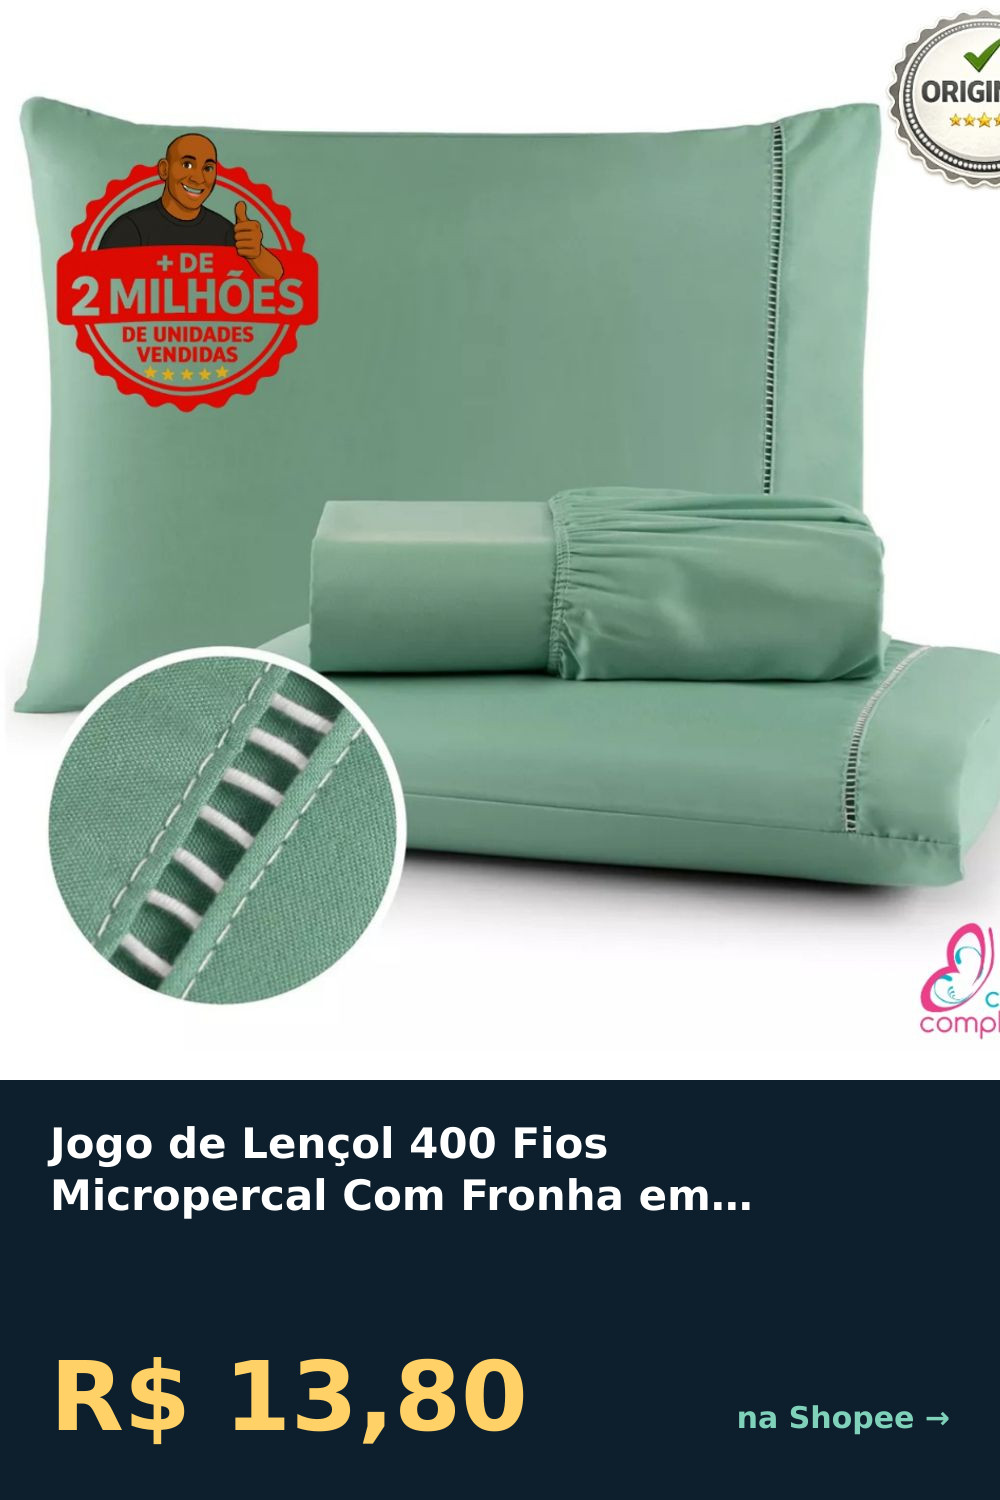
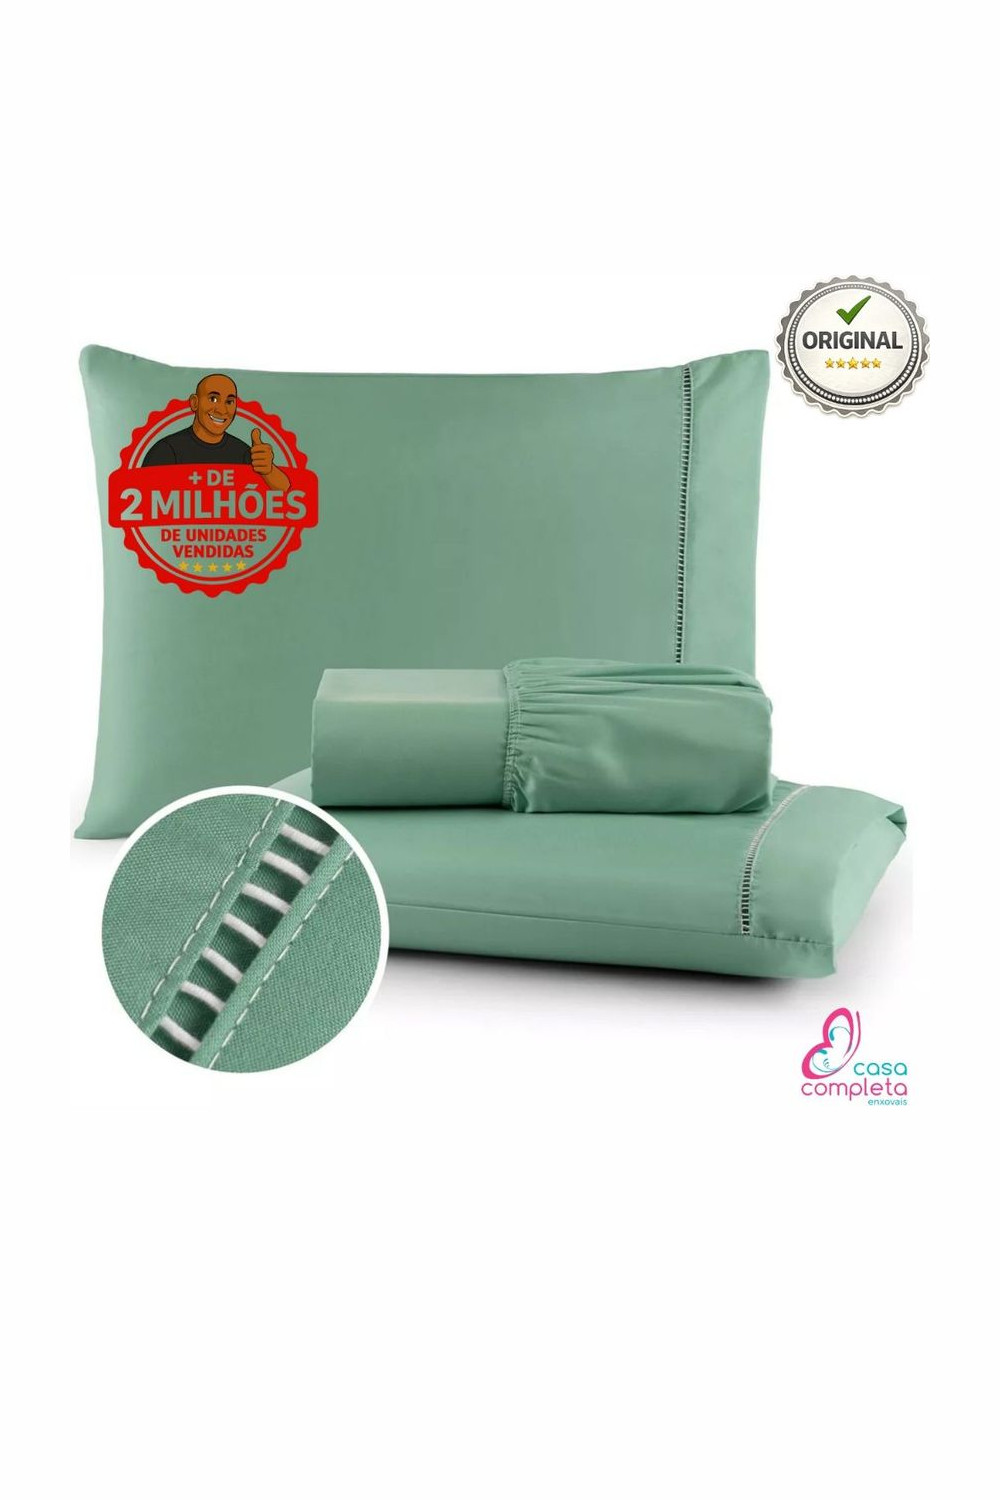
feat(engine): pin só com a fotografia, sem faixa de preço
Os primeiros ~15 pins saíram no formato com faixa escura, preço em amarelo e
selo de desconto, e deram zero clique. No Pinterest a foto é o anúncio; faixa
de preço faz o pin parecer anúncio de marketplace, que é o que as pessoas rolam
sem ver. O preço não some — segue no título e na descrição, que a plataforma
mostra ao lado do pin.

O enquadramento depende do tipo de foto, e a brancura da moldura diz qual é.
Foto ambientada sangra em 2:3 com corte guiado pela região de maior interesse.
Foto de catálogo não pode ser cortada, porque o produto ocupa o quadro inteiro:
entra completa sobre um fundo claro tirado da própria imagem. Nesse caso a
margem branca da foto original é aparada antes, senão soma com a margem do pin
e o produto fica pequeno num quadro vazio.

PIN_STYLE=banner volta ao formato anterior — é um teste, não uma troca
definitiva, e sem cliques nos dois não dá para saber qual serve.

Os seis pins que estão no feed foram regerados: o Data Store do Make não
conhece nenhum deles, então ainda podem ser publicados.

Claude-Session: https://claude.ai/code/session_01UAxsXg8g2GKgxUENyAVpNc

diff --git a/engine/src/processor/image.ts b/engine/src/processor/image.ts
@@ -1,7 +1,8 @@
 import fs from 'node:fs';
 import path from 'node:path';
 import sharp from 'sharp';
-import { IMAGES_DIR, PIN_HEIGHT, PIN_WIDTH } from '../config/index.js';
+import { config, IMAGES_DIR, PIN_HEIGHT, PIN_WIDTH } from '../config/index.js';
+import { measureBorderWhite } from '../miner/image-quality.js';
 import { logger } from '../utils/logger.js';
 import { slugify } from '../utils/links.js';
 import type { OfferRow } from '../database/offers.js';
@@ -13,6 +14,9 @@ const DOWNLOAD_TIMEOUT_MS = 20_000;
 /** A foto ocupa a largura toda e 72% da altura; o resto é a faixa de texto. */
 const PHOTO_HEIGHT = Math.round(PIN_HEIGHT * 0.72);
 const BANNER_HEIGHT = PIN_HEIGHT - PHOTO_HEIGHT;
+
+/** Acima disso a moldura é branca: foto de catálogo, não pode ser cortada. */
+const CATALOG_BORDER_WHITE = 0.5;
 
 export interface PinImageResult {
   /** Caminho absoluto do arquivo gerado. */
@@ -116,6 +120,73 @@ async function buildPhotoLayer(source: Buffer): Promise<Buffer> {
     .toBuffer();
 }
 
+/**
+ * Pin sem faixa de preço e sem texto: só a fotografia.
+ *
+ * No Pinterest a foto é o anúncio — faixa de preço e selo de desconto fazem o
+ * pin parecer anúncio de marketplace, que é justamente o que as pessoas rolam
+ * sem ver. O preço não se perde: continua no título e na descrição, que o
+ * Pinterest mostra ao lado do pin.
+ *
+ * O enquadramento depende do tipo de foto, e a moldura branca diz qual é:
+ *
+ * - **Foto ambientada** (moldura colorida): corta em 2:3 sangrando, guiado pela
+ *   região de maior interesse. É o formato que preenche a tela no feed.
+ * - **Foto de catálogo** (moldura branca): cortar decapitaria o produto, que
+ *   costuma ocupar o quadro inteiro. Entra inteira, centralizada, com margem
+ *   sobre um fundo claro tirado da própria imagem.
+ */
+async function buildCleanPin(source: Buffer): Promise<Buffer> {
+  const borderWhite = await measureBorderWhite(sharp(source));
+
+  if (borderWhite <= CATALOG_BORDER_WHITE) {
+    return sharp(source)
+      .resize(PIN_WIDTH, PIN_HEIGHT, { fit: 'cover', position: sharp.strategy.attention })
+      .jpeg({ quality: 90, chromaSubsampling: '4:4:4' })
+      .toBuffer();
+  }
+
+  // Fundo tirado da própria foto: nunca destoa do produto, e o branco puro
+  // da Shopee some no feed branco do Pinterest.
+  const { dominant } = await sharp(source).stats();
+  const background = {
+    r: Math.round(dominant.r * 0.12 + 255 * 0.88),
+    g: Math.round(dominant.g * 0.12 + 255 * 0.88),
+    b: Math.round(dominant.b * 0.12 + 255 * 0.88),
+  };
+
+  const inner = Math.round(PIN_WIDTH * 0.86);
+  // A foto de catálogo já vem com margem branca própria. Sem aparar, ela soma
+  // com a margem do pin e o produto fica pequeno num quadro alto e vazio.
+  // `trim` falha em imagem sem borda uniforme — daí o fallback para a original.
+  let product: Buffer;
+  try {
+    product = await sharp(source).trim({ threshold: 12 }).toBuffer();
+  } catch {
+    product = source;
+  }
+
+  product = await sharp(product)
+    .resize(inner, Math.round(PIN_HEIGHT * 0.78), { fit: 'inside', withoutEnlargement: false })
+    .toBuffer();
+  const { width = inner, height = inner } = await sharp(product).metadata();
+
+  return sharp({
+    create: { width: PIN_WIDTH, height: PIN_HEIGHT, channels: 3, background },
+  })
+    .composite([
+      {
+        input: product,
+        left: Math.round((PIN_WIDTH - width) / 2),
+        // Levemente acima do centro ótico: o rodapé do pin fica encoberto pelo
+        // título que o Pinterest desenha por cima.
+        top: Math.round((PIN_HEIGHT - height) / 2 - PIN_HEIGHT * 0.04),
+      },
+    ])
+    .jpeg({ quality: 90, chromaSubsampling: '4:4:4' })
+    .toBuffer();
+}
+
 /** Faixa inferior: nome do produto, preço original riscado e preço em destaque. */
 function buildBannerSvg(offer: OfferRow): Buffer {
   const price = escapeXml(formatBRL(offer.price));
@@ -159,18 +230,10 @@ function buildBannerSvg(offer: OfferRow): Buffer {
 
 /** Monta o pin 1000x1500 (2:3) exigido pelo Pinterest. */
 export async function buildPinImage(offer: OfferRow, imageBuffer: Buffer): Promise<PinImageResult> {
-  const [background, photo] = await Promise.all([
-    buildBackground(imageBuffer),
-    buildPhotoLayer(imageBuffer),
-  ]);
-
-  const composed = await sharp(background)
-    .composite([
-      { input: photo, top: 0, left: 0 },
-      { input: buildBannerSvg(offer), top: 0, left: 0 },
-    ])
-    .jpeg({ quality: 90, chromaSubsampling: '4:4:4' })
-    .toBuffer();
+  const composed =
+    config.pinStyle === 'clean'
+      ? await buildCleanPin(imageBuffer)
+      : await buildBannerPin(offer, imageBuffer);
 
   fs.mkdirSync(IMAGES_DIR, { recursive: true });
   const fileName = `${offer.id}-${slugify(offer.title, 40) || 'pin'}.jpg`;
@@ -179,6 +242,22 @@ export async function buildPinImage(offer: OfferRow, imageBuffer: Buffer): Promi
 
   logger.debug(`Pin gerado em ${filePath}`);
   return { filePath, width: PIN_WIDTH, height: PIN_HEIGHT };
+}
+
+/** Formato antigo: foto em cima, faixa escura com preço embaixo. */
+async function buildBannerPin(offer: OfferRow, imageBuffer: Buffer): Promise<Buffer> {
+  const [background, photo] = await Promise.all([
+    buildBackground(imageBuffer),
+    buildPhotoLayer(imageBuffer),
+  ]);
+
+  return sharp(background)
+    .composite([
+      { input: photo, top: 0, left: 0 },
+      { input: buildBannerSvg(offer), top: 0, left: 0 },
+    ])
+    .jpeg({ quality: 90, chromaSubsampling: '4:4:4' })
+    .toBuffer();
 }
 
 /** Baixa a imagem da oferta e gera o pin. Lança se a oferta não tiver imagem. */

diff --git a/engine/src/config/index.ts b/engine/src/config/index.ts
@@ -111,6 +111,19 @@ export const config = {
    */
   feedMaxItems: asInt(process.env.FEED_MAX_ITEMS, 6),
 
+  /**
+   * Formato do pin.
+   *
+   * - `clean`  — só a fotografia, sem faixa de preço e sem texto
+   * - `banner` — foto em cima, faixa escura com preço e desconto embaixo
+   *
+   * O `banner` foi o formato dos primeiros ~15 pins, que deram zero clique. No
+   * Pinterest a foto é o anúncio, e faixa de preço faz o pin parecer anúncio de
+   * marketplace. O preço não some: fica no título e na descrição, que a
+   * plataforma mostra ao lado do pin.
+   */
+  pinStyle: (process.env.PIN_STYLE ?? 'clean') as 'clean' | 'banner',
+
   /** Quantas ofertas publicar por ciclo — cadência conservadora evita bloqueio. */
   publishBatchSize: asInt(process.env.PUBLISH_BATCH_SIZE, 3),
 

diff --git a/engine/src/miner/image-quality.ts b/engine/src/miner/image-quality.ts
@@ -49,7 +49,7 @@ const SCENE_ENTROPY = 5;
 const SCENE_MAX_BORDER_WHITE = 0.5;
 
 /** Fração da moldura que é branco puro — mede fundo de catálogo. */
-async function measureBorderWhite(image: ReturnType<typeof sharp>): Promise<number> {
+export async function measureBorderWhite(image: ReturnType<typeof sharp>): Promise<number> {
   const size = 200;
   const { data } = await image
     .clone()
